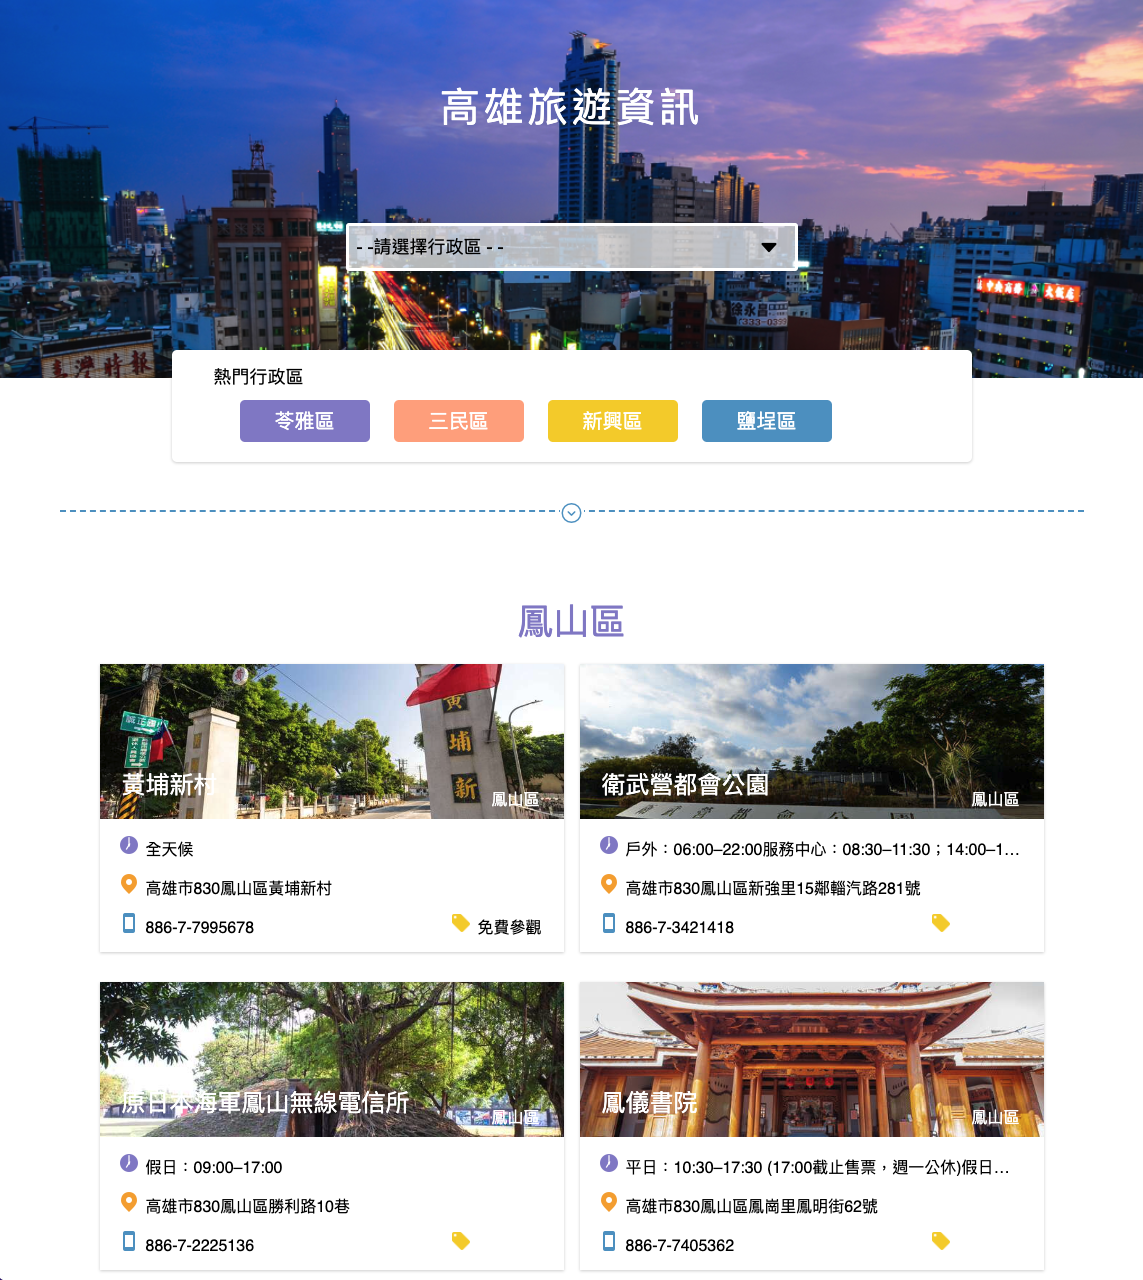
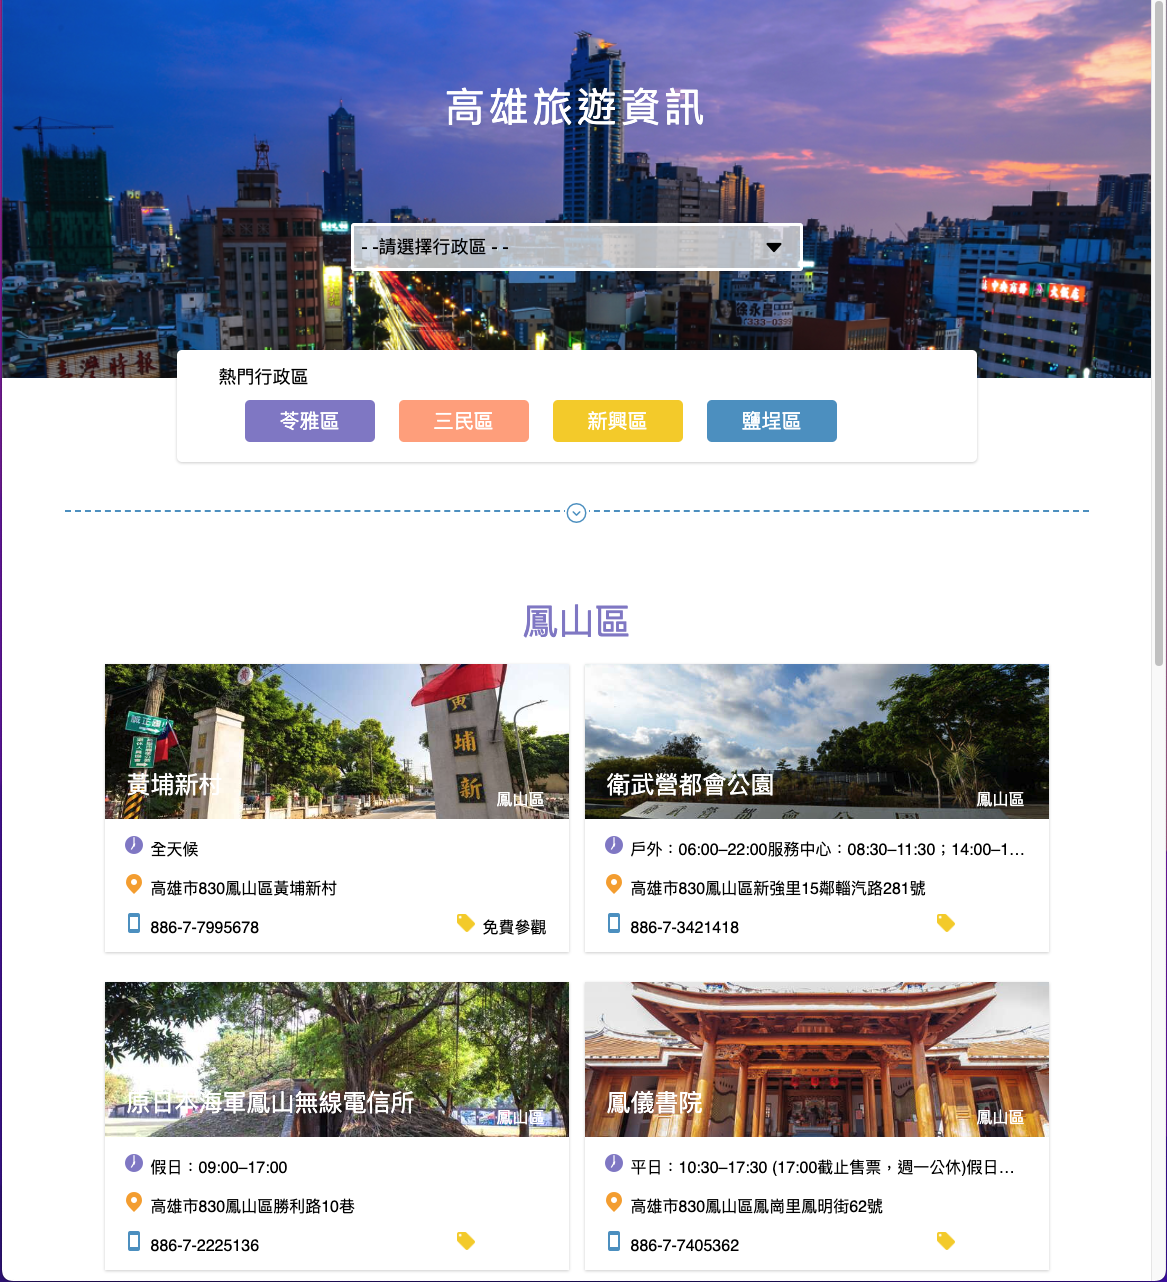
update page demo image

diff --git a/scss/components/_layout.scss b/scss/components/_layout.scss
@@ -30,7 +30,7 @@
         }
     }
     .district {
-        width: 108px;
+        min-width: 108px;
         margin: 0 auto;
         margin-top: 76px;
         font-size: 36px;
